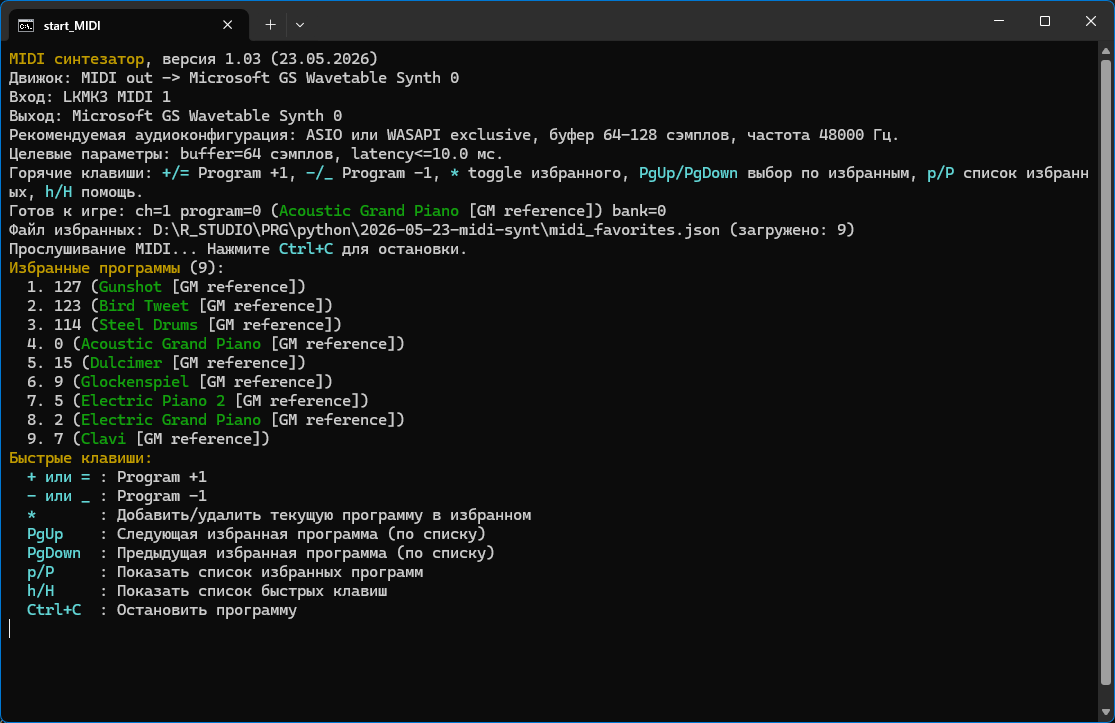
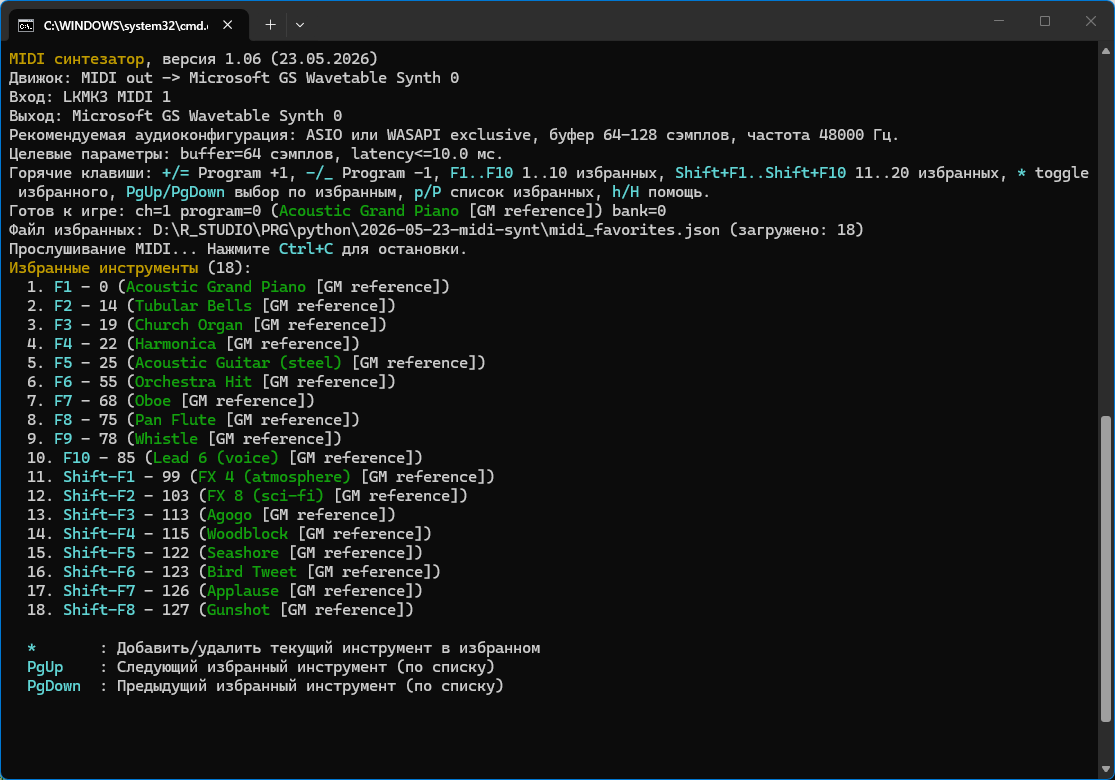
feat: обновление README.md для улучшения презентации проекта, добавление скриншотов и структурирование разделов

Changed region(s): [[0.0, 0.0, 1.0, 0.9129], [0.9758, 0.9129, 1.0, 0.9433]]

diff --git a/README.md b/README.md
@@ -1,172 +1,197 @@
-# MIDI keyboard real-time player
+# live-midi-player
 
-Проект слушает MIDI-клавиатуру и воспроизводит звук в реальном времени.
+`live-midi-player` — MIDI live player для Windows: слушает MIDI-клавиатуру и сразу отправляет ноты в выбранный синтезатор. Подходит для игры в реальном времени, переключения инструментов на лету и быстрых живых сетапов.
 
-Поддерживаются два движка:
+**Коротко о проекте:**
+- live-воспроизведение MIDI без DAW в минимальном окружении;
+- два движка: `midi-out` (рекомендуется) и `fluidsynth`;
+- быстрое переключение инструментов (`Program Change`, Bank Select);
+- избранные инструменты (до 20 позиций) и горячие клавиши;
+- сохранение MIDI-портов в JSON-конфиг.
 
-- `midi-out` (рекомендуется): отправка MIDI в DAW/VST для лучшего качества звука.
-- `fluidsynth`: автономный вариант через SoundFont (`.sf2`) внутри Python.
+![MIDI Live Player — main screen](res/scr/midi-live-player-main.png)
 
-## Быстрый старт
+## Возможности
 
-1. Установка зависимостей:
+- **Два режима воспроизведения:**  
+  `midi-out` для отправки MIDI во внешний синт (DAW/VST/устройство) и `fluidsynth` для standalone работы через SoundFont (`.sf2`).
+- **Live-управление инструментами:**  
+  смена `program`/`bank` в реальном времени с логами и GM-именами.
+- **Избранные инструменты:**  
+  отдельный файл `midi_favorites.json`, быстрый выбор из списка.
+- **Сохранение портов:**  
+  текущие `input/output` сохраняются в `midi_ports.json`.
+- **CLI + batch-скрипты:**  
+  готовые команды для установки, настройки, запуска и тестов на Windows.
+
+## Требования
+
+- Windows 10/11
+- Python 3.10+ (рекомендуется 3.11+)
+- MIDI input-устройство (клавиатура/контроллер)
+- (опционально) DAW/VST или внешний MIDI-синтезатор
+- (опционально) SoundFont `.sf2` для режима `fluidsynth`
+
+Зависимости из `requirements.txt`:
+- `mido`
+- `python-rtmidi`
+- `pyfluidsynth`
+
+## Быстрый старт (Windows)
+
+1) Установить зависимости и создать виртуальное окружение:
 
 ```bat
 install.bat
 ```
 
-2. Активация окружения:
+2) Активировать окружение:
 
 ```bat
-.venv\Scripts\activate
+act.bat
 ```
 
-3. Настройка портов (основной сценарий):
+3) Настроить MIDI-порты:
 
 ```bat
 configure_ports.bat
 ```
 
-4. Запуск плеера с текущими сохраненными настройками:
+![Настройка MIDI портов](res/scr/midi-live-player-config.png)
+
+4) Запустить плеер:
 
 ```bat
 python main.py
 ```
 
-## Где хранятся выбранные порты
+Быстрый запуск из скрипта:
 
-Текущие `input/output` сохраняются в файле:
+```bat
+start_midi.bat
+```
 
-- `midi_ports.json`
+## Управление во время игры
 
-Приоритет выбора портов:
+Горячие клавиши в консоли:
+- `+` / `=` — следующий инструмент (`Program +1`)
+- `-` / `_` — предыдущий инструмент (`Program -1`)
+- `F1..F10` — избранные инструменты `1..10`
+- `Shift+F1..Shift+F10` — избранные инструменты `11..20`
+- `*` — добавить/удалить текущий инструмент в избранном
+- `PgUp` / `PgDown` — навигация по избранным
+- `p` / `P` — показать список избранных
+- `h` / `H` — показать подсказку по клавишам
 
-1. Явные CLI-параметры `--input-port` / `--output-port`
-2. Значения из `midi_ports.json`
-3. Первый доступный порт из системы (fallback)
+Дополнительно можно переключать инструменты по MIDI CC:
+- `--program-up-cc <0..127>`
+- `--program-down-cc <0..127>`
 
-## configure_ports.bat
+Файл избранных по умолчанию: `midi_favorites.json` (можно переопределить через `--favorites`).
 
-### Интерактивное меню (основной кейс)
+## Настройка портов
 
-Запуск без параметров:
+Порты можно настраивать интерактивно и через аргументы:
 
 ```bat
 configure_ports.bat
-```
-
-В меню доступны действия:
-
-- показать сохраненные настройки;
-- показать текущие MIDI порты;
-- изменить input/output;
-- запуск `main.py`.
-
-### Параметризованные команды
-
-Показать сохраненные настройки:
-
-```bat
 configure_ports.bat show-config
-```
-
-Показать текущие доступные порты:
-
-```bat
 configure_ports.bat list-ports
-```
-
-Сохранить новый input/output:
-
-```bat
 configure_ports.bat set --input-port "LKMK3 MIDI 0" --output-port "Microsoft GS Wavetable Synth 0"
-```
-
-Поддерживается частичное обновление:
-
-```bat
-configure_ports.bat set --input-port "LKMK3 MIDI 0"
-```
-
-Запустить программу с дополнительными аргументами:
-
-```bat
 configure_ports.bat run --engine midi-out
 ```
 
-## Команды main.py
+Приоритет выбора портов:
+1. CLI-параметры `--input-port` / `--output-port`
+2. значения из `midi_ports.json`
+3. первый доступный системный порт (fallback)
 
-Список портов:
+## CLI примеры (`main.py`)
+
+Показать доступные порты:
 
 ```bat
 python main.py --list-ports
+python main.py --list-ports-json
+python main.py --list-ports-json --ports-kind input
 ```
 
-Показать сохраненный конфиг:
+Работа с конфигом портов:
 
 ```bat
 python main.py --show-config
-```
-
-Сохранить порты в конфиг:
-
-```bat
 python main.py --set-config --input-port "LKMK3 MIDI 0" --output-port "Microsoft GS Wavetable Synth 0"
+python main.py --save-ports --engine midi-out --input-port "LKMK3 MIDI 0" --output-port "Microsoft GS Wavetable Synth 0"
 ```
 
-Запуск с лучшим качеством (через MIDI Out):
+Запуск через `midi-out` (рекомендуется):
 
 ```bat
 python main.py --engine midi-out
-```
-
-Пример для конкретных портов:
-
-```bat
 python main.py --engine midi-out --input-port "LKMK3 MIDI 0" --output-port "Microsoft GS Wavetable Synth 0"
 ```
 
-Standalone через FluidSynth:
+Запуск через `fluidsynth`:
 
 ```bat
 python main.py --engine fluidsynth --soundfont "D:\SoundFonts\piano.sf2" --audio-driver wasapi --sample-rate 48000 --buffer 64
 ```
 
-## Проверка гипотезы: mido + python-rtmidi (live)
+Полезные опции:
+- `--channel`, `--program`, `--bank`
+- `--audio-driver`, `--sample-rate`, `--buffer`, `--latency-target-ms`
+- `--config` (путь к файлу портов), `--favorites` (путь к файлу избранных)
+- `--verbose` (печатать входящие MIDI-сообщения)
 
-Цель проверки: убедиться, что смена инструмента (`program_change`) действительно применяется в живом потоке и слышимо меняет тембр на стороне внешнего синта/DAW.
+## Проверка live `Program Change`
 
-1. Запусти слушатель в verbose-режиме:
+1. Запустите в verbose-режиме:
 
 ```bat
 python main.py --engine midi-out --verbose
 ```
 
-2. В DAW/контроллере отправь в одном сеансе:
-   - `program_change` для Piano (например, program `0`);
-   - сыграй несколько нот;
-   - `program_change` для Organ (например, program `16`);
-   - снова сыграй несколько нот;
-   - `program_change` для Strings (например, program `48`);
-   - снова сыграй несколько нот.
+2. Отправьте последовательность: `ProgramChange` -> несколько нот -> новый `ProgramChange` -> снова ноты.
+3. Если устройство использует Bank Select, отправляйте `CC0` -> `CC32` -> `ProgramChange`.
 
-3. Если устройство использует Bank Select, отправляй последовательность:
-   - `CC0` (Bank MSB) -> `CC32` (Bank LSB) -> `ProgramChange`.
+Ожидаемые признаки:
+- логи `[instrument]` при изменении bank/program;
+- логи `[play]` на `note_on` с актуальным `program/bank`;
+- слышимое изменение тембра на внешнем синте.
 
-Ожидаемые признаки в консоли:
-- строки `[instrument] ... cc0/cc32 ...` при смене банка;
-- строка `[instrument] ... program=... bank=...` при смене программы;
-- строки `[play] ... program=... bank=...` на входящих `note_on`, чтобы сопоставить игру с активным тембром.
+## Тесты
 
-Критерий успеха:
-- логи фиксируют смену программы без ошибок;
-- тембр слышимо меняется после `program_change`.
+Запуск всех тестов:
 
-Важно: итоговый звук определяется внешним синтом/плагином (DAW/VST/устройство). `mido + python-rtmidi` только корректно передает MIDI-сообщения.
+```bat
+run_tests.bat
+```
 
-## Рекомендации по задержке
+Запуск конкретного теста:
 
-- Используй ASIO или WASAPI exclusive.
-- Buffer: `64-128` samples.
-- Sample rate: `48000` Hz.
-- `Microsoft GS Wavetable Synth` часто дает заметную задержку; для более живого отклика лучше DAW/VST или tuned FluidSynth.
+```bat
+run_tests.bat tests/test_program_names.py
+run_tests.bat tests/test_program_names.py::test_gm_program_name_hit
+```
+
+## Структура проекта
+
+```text
+.
+├─ main.py
+├─ requirements.txt
+├─ install.bat
+├─ configure_ports.bat
+├─ start_MIDI.bat
+├─ run_tests.bat
+├─ midi_ports.json
+├─ midi_favorites.json
+├─ tests/
+└─ res/scr/
+```
+
+## Notes
+
+- Проект ориентирован на Windows (используются консольные hotkeys через `msvcrt`).
+- Для минимальной задержки в live-сценариях предпочтителен `midi-out` + DAW/VST с ASIO/WASAPI exclusive.
+- `Microsoft GS Wavetable Synth` удобен для проверки, но часто даёт заметную задержку.

diff --git a/.cursor/plans/084_readme_github_polish_ddd7d14f.plan.md b/.cursor/plans/084_readme_github_polish_ddd7d14f.plan.md
@@ -1,0 +1,43 @@
+---
+name: README GitHub polish
+overview: "Обновить README.md в формат главной витрины репозитория live-midi-player: сделать понятный вход, структурировать разделы и встроить релевантные скриншоты из res/scr."
+todos:
+  - id: readme-hero
+    content: Переписать верх README в формате GitHub-витрины и встроить главный скриншот main-v02
+    status: completed
+  - id: readme-quickstart
+    content: Собрать компактный и понятный Quick Start для Windows с блоком настройки портов и скриншотом config
+    status: completed
+  - id: readme-controls
+    content: Добавить раздел о горячих клавишах, избранных инструментах и практическом live-использовании
+    status: completed
+  - id: readme-reference
+    content: "Обновить справочные разделы: CLI, требования, зависимости, тесты и структура проекта"
+    status: completed
+isProject: false
+---
+
+# План обновления README для GitHub
+
+## Цель
+Сделать `README.md` главным презентационным файлом репозитория `live-midi-player`, сохранив практические инструкции по запуску и добавив визуальную часть для быстрого понимания проекта.
+
+## Что будет изменено
+- Переработать верхнюю часть README: новый заголовок, короткое позиционирование проекта и блок ключевых возможностей.
+- Встроить главный скриншот из `[res/scr/midi-live-player-main-v02.png](res/scr/midi-live-player-main-v02.png)` сразу после вводного блока.
+- Оформить раздел быстрого старта как пошаговый сценарий установки и первого запуска с командами для Windows.
+- В раздел настройки добавить скриншот `[res/scr/midi-live-player-config.png](res/scr/midi-live-player-config.png)` рядом с инструкциями по `configure_ports.bat`.
+- Добавить отдельный блок по управлению во время игры: горячие клавиши, избранные инструменты и поведение `Program Change`.
+- Обновить и структурировать справочный блок CLI (движки, порты, полезные флаги, примеры запуска), чтобы не терять текущую техническую ценность.
+- Добавить короткие служебные разделы для GitHub-публикации: требования, зависимости из `[requirements.txt](requirements.txt)`, запуск тестов из `[run_tests.bat](run_tests.bat)` и краткую структуру проекта.
+
+## Файлы в работе
+- Основной редактируемый файл: `[README.md](README.md)`.
+- Источники фактов для синхронизации документации:
+  - `[main.py](main.py)`
+  - `[requirements.txt](requirements.txt)`
+  - `[configure_ports.bat](configure_ports.bat)`
+  - `[run_tests.bat](run_tests.bat)`
+  - `[midi_favorites.json](midi_favorites.json)`
+  - изображения в `[res/scr](res/scr)
+`
